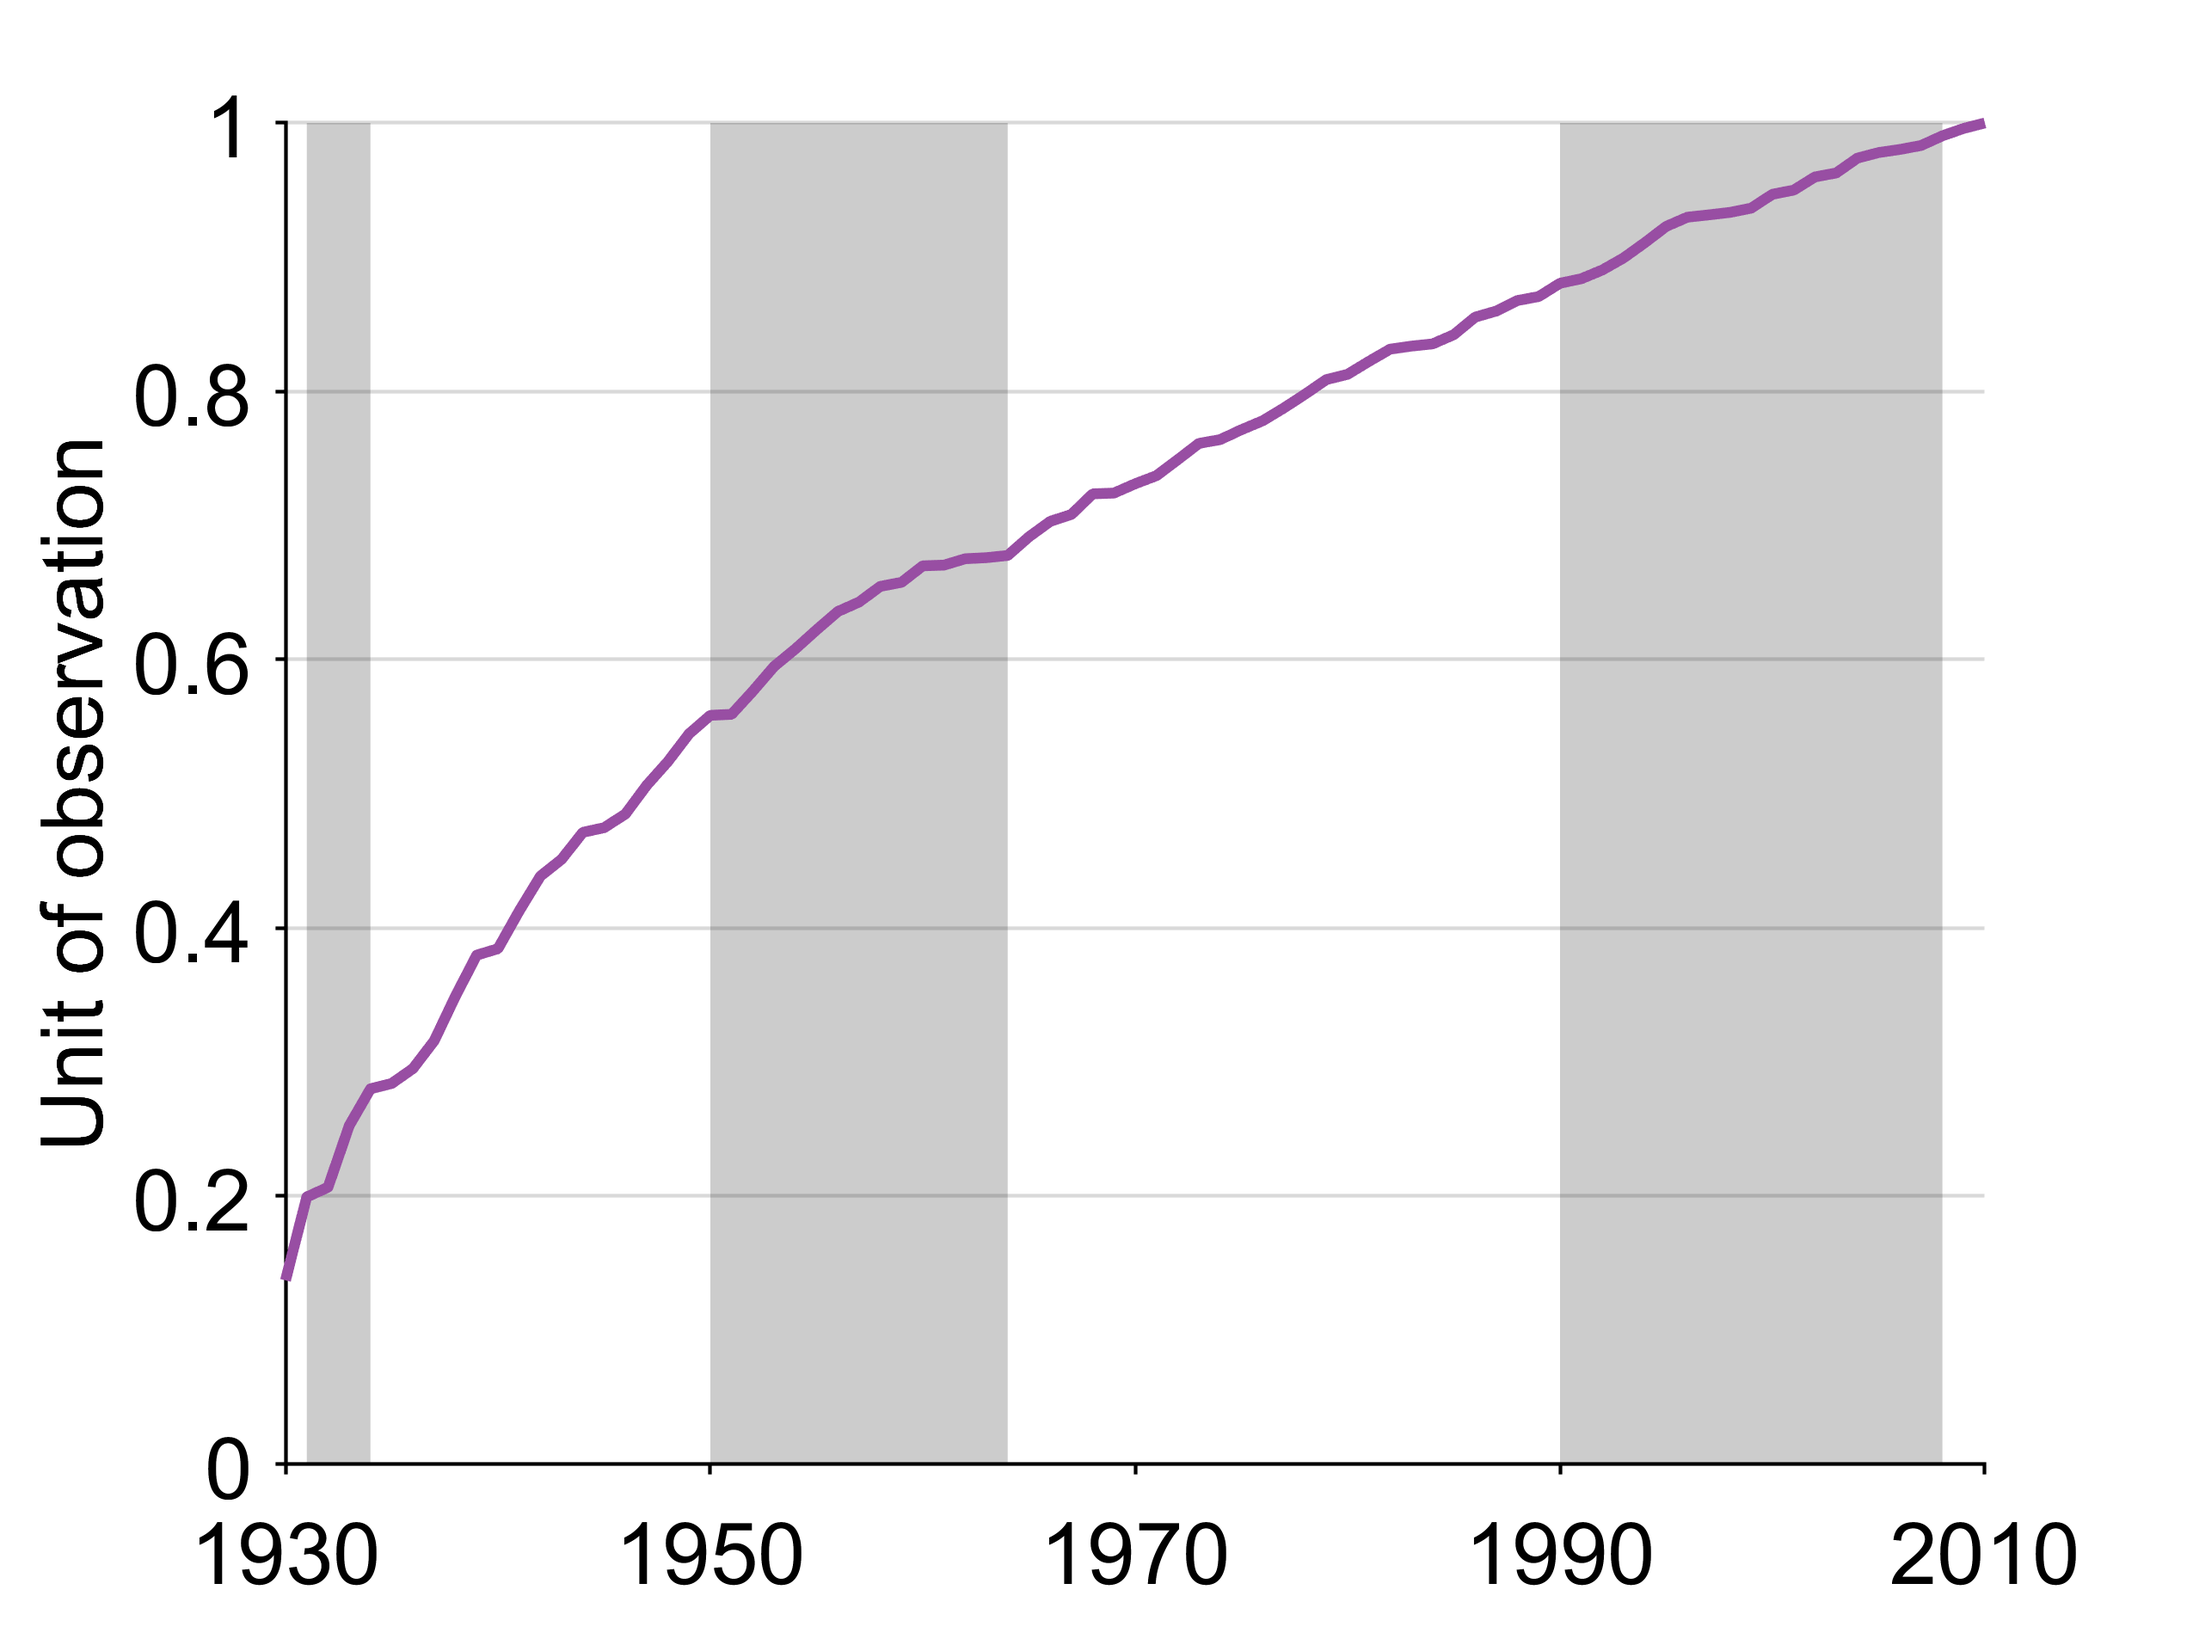
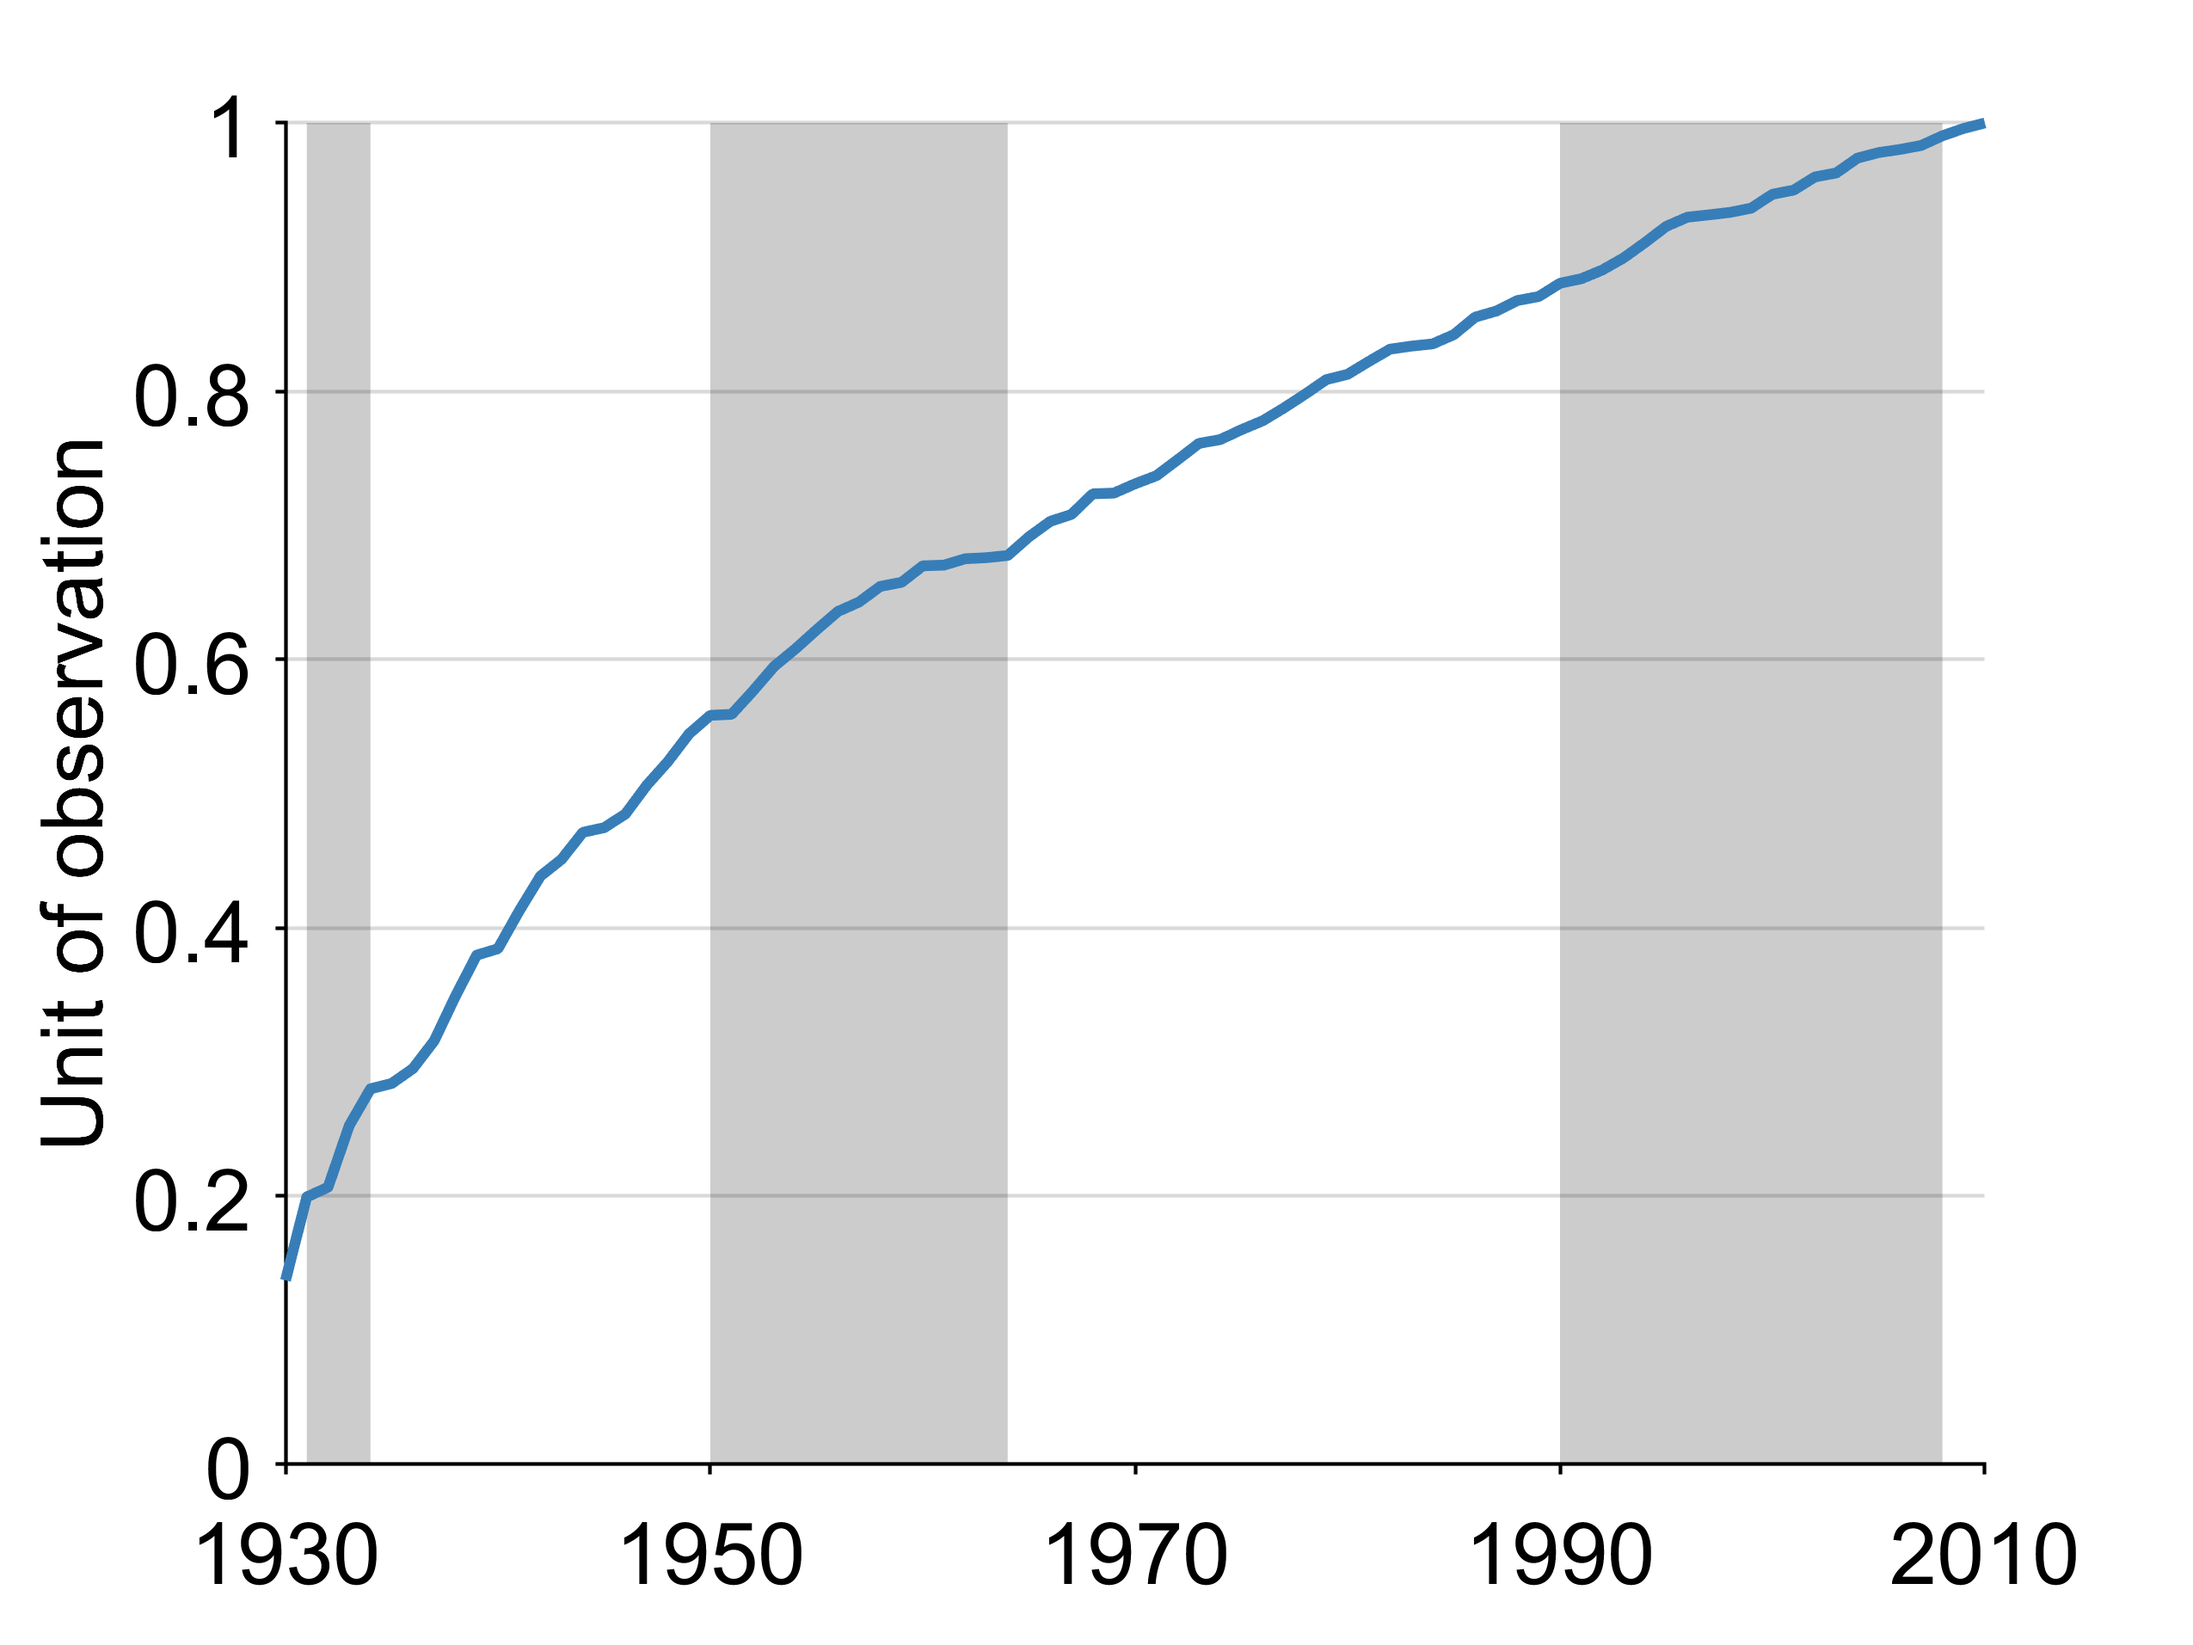
figures.m: illustrate with Set1's red, blue and green
The qualitative figures used the palette's purple, orange and green; the
primary series is now blue, the second red, the third green, and the
figures are regenerated.

diff --git a/figures.m b/figures.m
@@ -140,10 +140,10 @@ yAxis = [fieldnames(obj), struct2cell(obj)]';
 
 % Predefine properties for lines
 clear obj
-obj.Color = purpleColor;
+obj.Color = blueColor;
 obj.LineWidth = 3;
 obj.LineStyle = '-';
-purpleLine = [fieldnames(obj), struct2cell(obj)]';
+blueLine1 = [fieldnames(obj), struct2cell(obj)]';
 
 % Open figure 
 iFigure = 1;
@@ -152,7 +152,7 @@ clf
 hold on
 
 % Plot data
-plot(time, data1, purpleLine{:})
+plot(time, data1, blueLine1{:})
 
 %Populate axes
 set(gca, xAxis{:}, yAxis{:})
@@ -184,7 +184,7 @@ hold on
 xregion(startPeriod, endPeriod, periodArea{:});
 
 % Plot data
-plot(time, data1, purpleLine{:})
+plot(time, data1, blueLine1{:})
 
 %Populate axes
 set(gca, xAxis{:}, yAxis{:})
@@ -202,10 +202,10 @@ data3 = (data1+data2)./2;
 
 % Predefine additional properties for lines
 clear obj
-obj.Color = orangeColor;
+obj.Color = redColor;
 obj.LineWidth = 3;
 obj.LineStyle = '-.';
-orangeLine = [fieldnames(obj), struct2cell(obj)]';
+redLine = [fieldnames(obj), struct2cell(obj)]';
 clear obj
 obj.Color = greenColor;
 obj.LineWidth = 3;
@@ -219,8 +219,8 @@ clf
 hold on
 
 % Plot data
-plot(time, data1, purpleLine{:})
-plot(time, data2, orangeLine{:})
+plot(time, data1, blueLine1{:})
+plot(time, data2, redLine{:})
 plot(time, data3, greenLine{:})
 
 %Populate axes
@@ -234,10 +234,10 @@ figure_print('figures/qualitative.png')
 
 % Predefine additional properties for lines
 clear obj
-obj.Color = orangeColor;
+obj.Color = redColor;
 obj.LineWidth = 3;
 obj.LineStyle = '-';
-orangeLine = [fieldnames(obj), struct2cell(obj)]';
+redLine = [fieldnames(obj), struct2cell(obj)]';
 clear obj
 obj.Color = greenColor;
 obj.LineWidth = 3;
@@ -251,8 +251,8 @@ clf
 hold on
 
 % Plot data
-plot(time, data1, purpleLine{:})
-plot(time, data2, orangeLine{:})
+plot(time, data1, blueLine1{:})
+plot(time, data2, redLine{:})
 plot(time, data3, greenLine{:})
 
 %Populate axes
@@ -333,7 +333,7 @@ figure_print('figures/sequential_variant.png')
 
 % Predefine property for target line
 clear obj
-obj.Color = orangeColor;
+obj.Color = redColor;
 obj.LineWidth = 1;
 obj.LineStyle = '-';
 thinLine = [fieldnames(obj), struct2cell(obj)]';
@@ -349,11 +349,11 @@ a = area(time, [0.6.*ones(size(data1)), max(data1 - 0.6,0), min(data1 - 0.6,0)],
 a(1).FaceAlpha = 0;
 a(2).FaceAlpha = 0.2;
 a(3).FaceAlpha = 0.2;
-a(2).FaceColor = purpleColor;
-a(3).FaceColor = orangeColor;
+a(2).FaceColor = blueColor;
+a(3).FaceColor = redColor;
 
 % Plot data
-plot(time, data1, purpleLine{:})
+plot(time, data1, blueLine1{:})
 
 % Highlight target of 0.6
 yline(0.6, thinLine{:})
@@ -378,12 +378,12 @@ a = area(time, [data2, max(data1 - data2,0), min(data1 - data2,0)], 'LineStyle',
 a(1).FaceAlpha = 0;
 a(2).FaceAlpha = 0.2;
 a(3).FaceAlpha = 0.2;
-a(2).FaceColor = purpleColor;
-a(3).FaceColor = orangeColor;
+a(2).FaceColor = blueColor;
+a(3).FaceColor = redColor;
 
 % Plot data series
-plot(time, data1, purpleLine{:})
-plot(time, data2, orangeLine{:})
+plot(time, data1, blueLine1{:})
+plot(time, data2, redLine{:})
 
 %Populate axes
 set(gca, xAxis{:}, yAxis{:})
@@ -421,10 +421,10 @@ yAxis = [fieldnames(obj), struct2cell(obj)]';
 clear obj
 obj.LineWidth = 1;
 obj.SizeData = 100;
-obj.MarkerFaceColor = purpleColor;
-obj.MarkerEdgeColor = purpleColor;
+obj.MarkerFaceColor = blueColor;
+obj.MarkerEdgeColor = blueColor;
 obj.Marker = 'o';
-purpleDot = [fieldnames(obj), struct2cell(obj)]';
+blueDot = [fieldnames(obj), struct2cell(obj)]';
 
 % Open figure 
 iFigure = iFigure + 1;
@@ -433,7 +433,7 @@ clf
 hold on
 
 % Plot data
-scatter(data7, data8, purpleDot{:})
+scatter(data7, data8, blueDot{:})
 
 %Populate axes
 set(gca, xAxis{:}, yAxis{:})
@@ -449,8 +449,8 @@ figure_print('figures/scatter.png')
 clear obj
 obj.LineWidth = 1;
 obj.SizeData = 100;
-obj.MarkerFaceColor = purpleColor;
-obj.MarkerEdgeColor = purpleColor;
+obj.MarkerFaceColor = blueColor;
+obj.MarkerEdgeColor = blueColor;
 obj.Marker = 'o';
 obj.MarkerFaceAlpha = 0.4;
 transparentDot = [fieldnames(obj), struct2cell(obj)]';
@@ -485,10 +485,10 @@ obj.LineWidth = 1;
 obj.LineStyle = '-';
 obj.Color = gray4;
 obj.MarkerSize = 10;
-obj.MarkerFaceColor = purpleColor;
-obj.MarkerEdgeColor = purpleColor;
+obj.MarkerFaceColor = blueColor;
+obj.MarkerEdgeColor = blueColor;
 obj.Marker = 'o';
-purpleDot = [fieldnames(obj), struct2cell(obj)]';
+blueDot = [fieldnames(obj), struct2cell(obj)]';
 
 % Open figure 
 iFigure = iFigure + 1;
@@ -497,7 +497,7 @@ clf
 hold on
 
 % Plot data
-plot(data9, data10, purpleDot{:})
+plot(data9, data10, blueDot{:})
 
 %Populate axes
 set(gca, xAxis{:}, yAxis{:})
